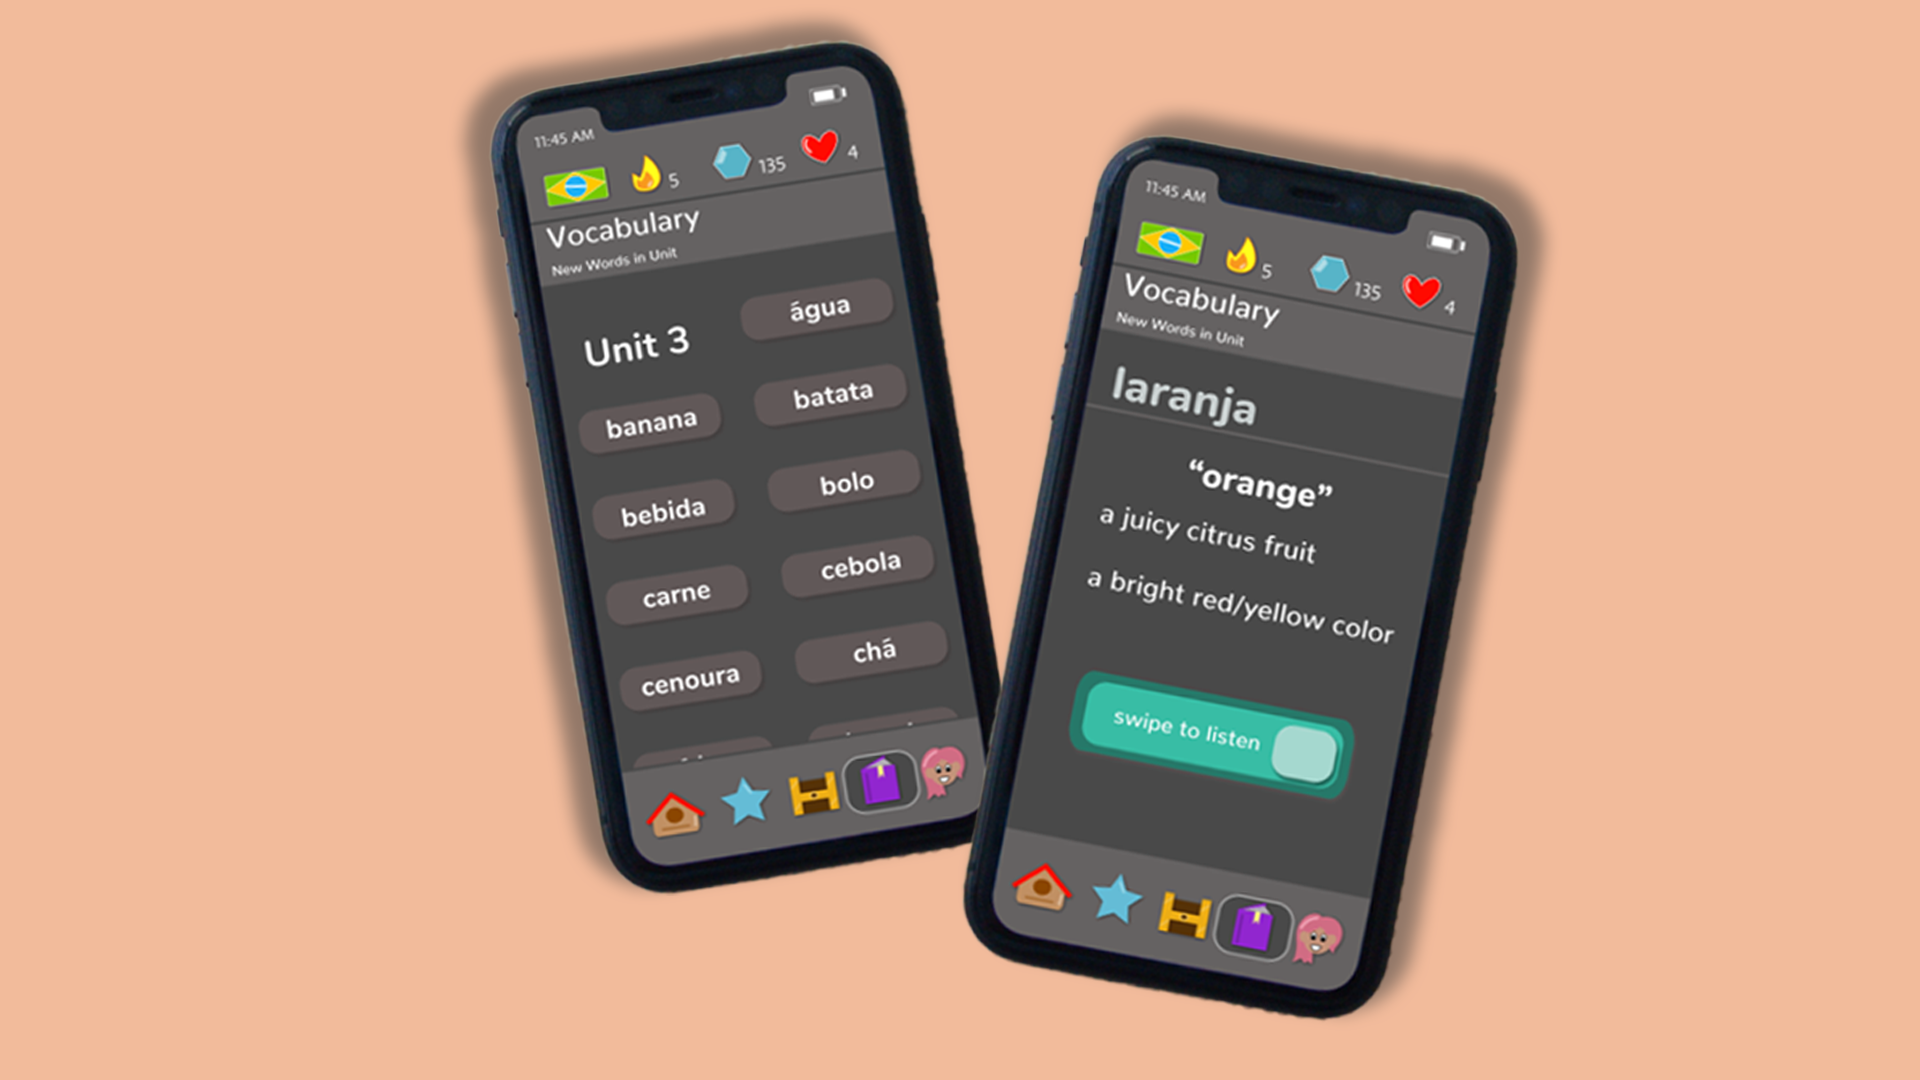
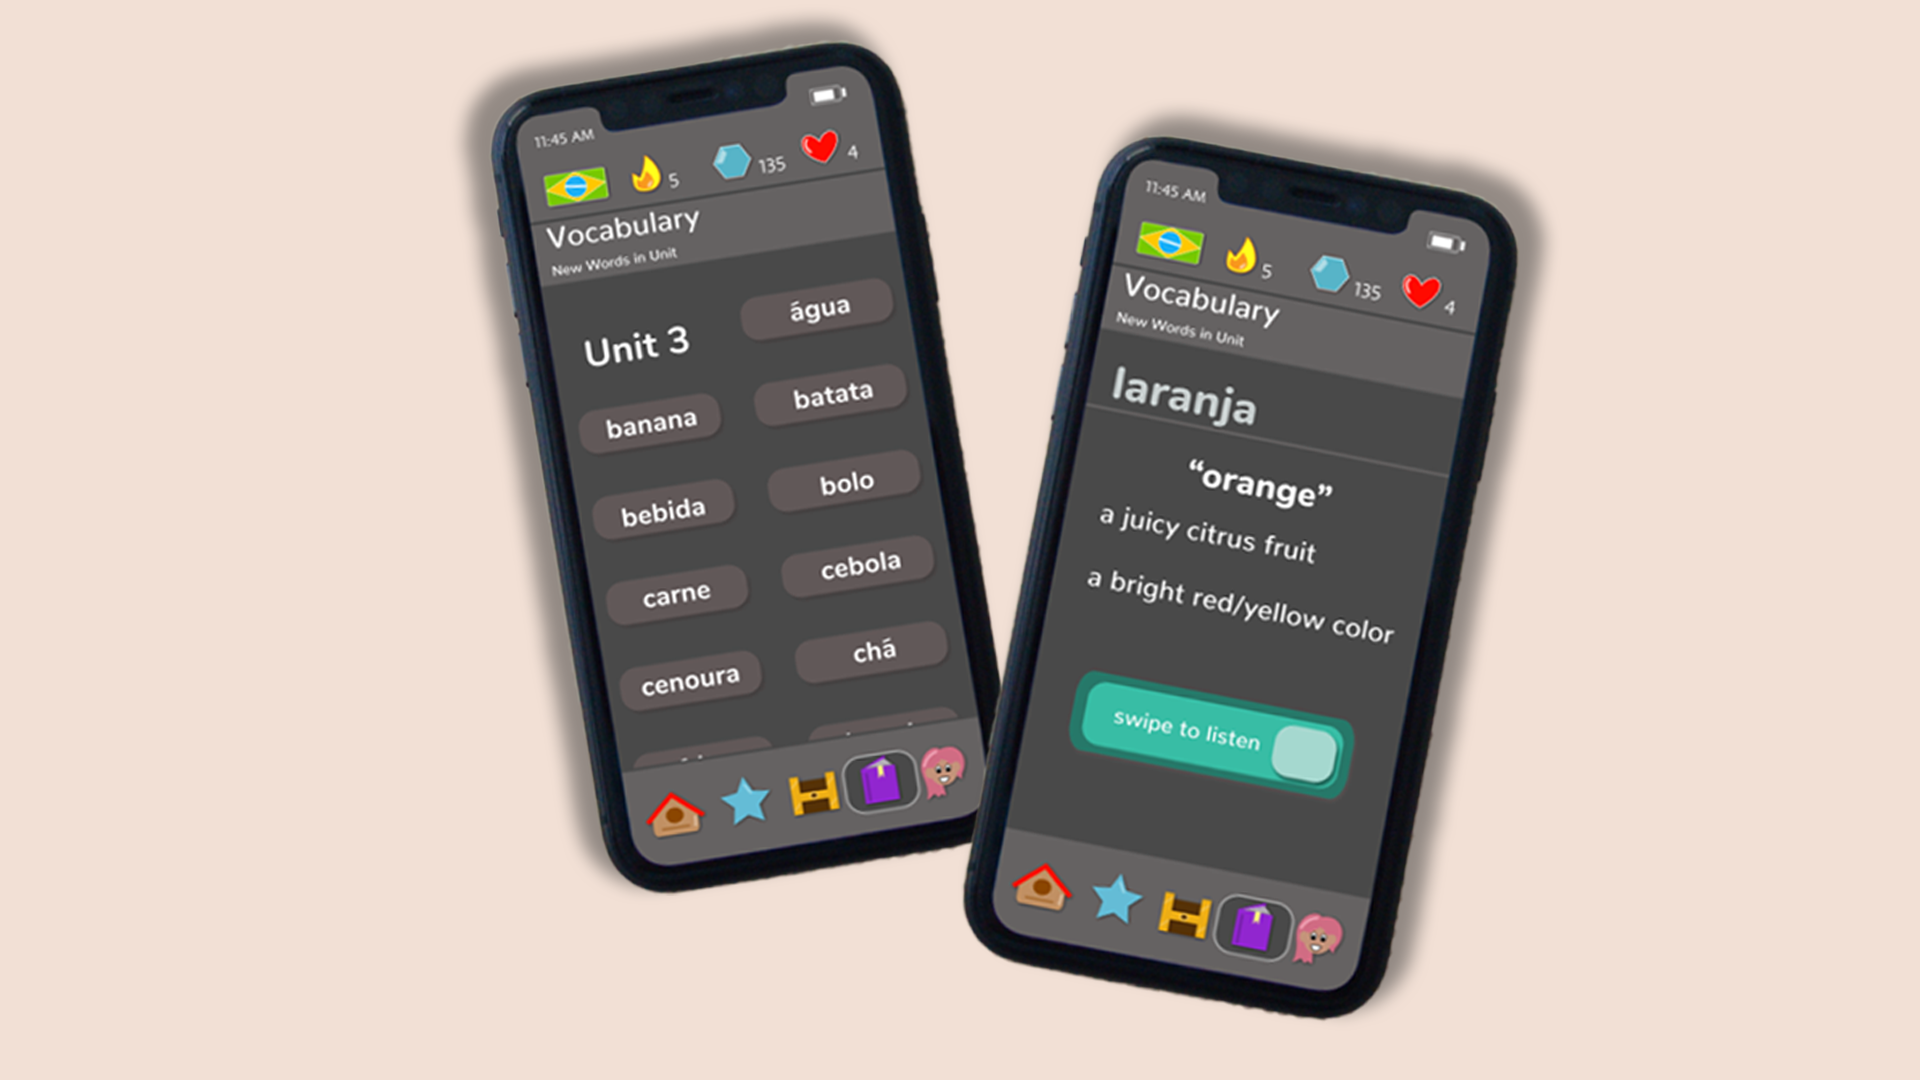
Color and image update

diff --git a/styles.css b/styles.css
@@ -1,7 +1,7 @@
 /* Global CSS */
 
 body{
-    background-color: #F2E0D5;
+    background-color: #f4ece7;
     color: #352F59;
     margin: 0;
     padding: 0;
@@ -134,7 +134,7 @@ h1{
 }
 
 .works-bg-color-3 {
-    background-color: #F2E0D5;
+    background-color: #f4ece7;
     color: #352F59;
 }
 
